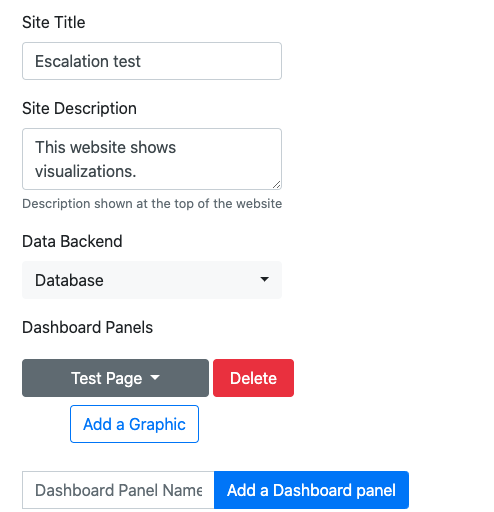
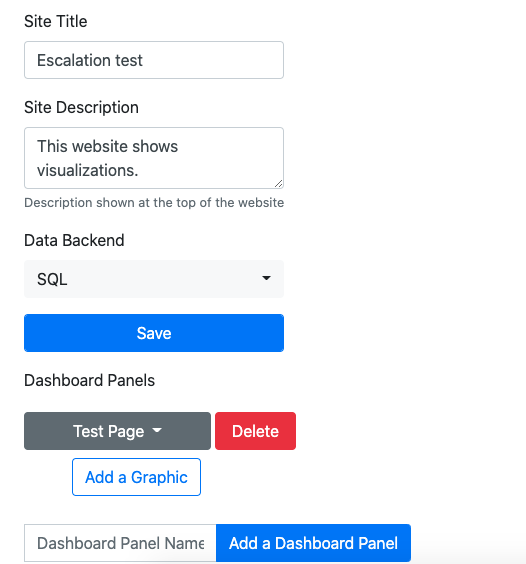
Updated documentation

Changed region(s): [[0.0304, 0.0, 0.8502, 1.0], [0.5162, 0.25, 0.5769, 0.2812], [0.4858, 0.4688, 0.5162, 0.5]]

diff --git a/config_information/wizard_guide/creating_first_graphic_with_wizard.md b/config_information/wizard_guide/creating_first_graphic_with_wizard.md
@@ -6,28 +6,27 @@ Ready? Let's begin.
 - First open the url where wizard app is being hosted: [http://localhost:8000/wizard](http://localhost:8000/wizard). Once open you should see
 
 ![](images/first_look.png)
-- To add data to the app, click on "Upload" on the navigation bar on the top. Give a username for the uploader, name your data table (Data File Type), pick a csv file to upload, and click submit. 
+- First, fill out the title, a description for your dashboard, select the data backend you're using and click save.
+- Next, to add data to the app, click on "Upload" on the navigation bar on the top. Give a username for the uploader, name your data table (Data File Type), pick a csv file to upload, and click submit. 
   
 ![](images/add_csv.png)
 
-- Click on "Configuration Wizard" and fill out the title, and description for your dashboard, and select the data backend you're using.
- Now let's add our first page.
- Enter a name for the new dashboard panel page and click "Add a Dashboard Panel."
+- Click on "Configuration Wizard".
+- Now let's add our first page.
+Enter a name for the new dashboard panel page and click "Add a Dashboard Panel."
  
 ![](images/add_page.png)
-- Now let's add a graphic to the page. Click "Add a Graphic"
- 
-![](images/one_page.png)
-- Click on your dashboard panel page to see which graphics are in the page.
 
-![](images/click_on_page.png)
-- There currently are none so let us add one. Type in a name for the graphic and click add a graphic. 
-You will be brought to the graphic config editor. 
+- Now let's add a graphic to the page. Click "Add a Graphic"
 
 ![](images/graphic_config.png)
+
 - Fill out the form. The html example here
  [gallery/index.html](../gallery/index.html) (best opened and viewed in a browser) contains graphics and the forms that generated them. Once you are done hit submit.
 Now you will have a graphic in your page. 
 
 ![](images/add_graphic.png)
 
+- You can see the graphic by clicking on "Dashboards" then on the title of your page.
+
+![](images/navbar_newpage.png)
